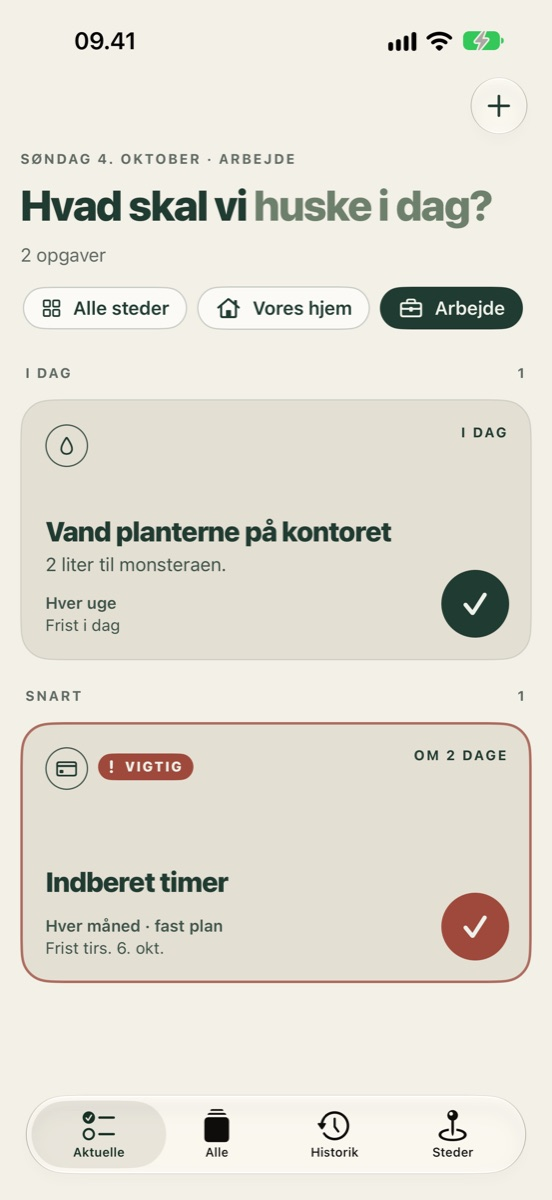
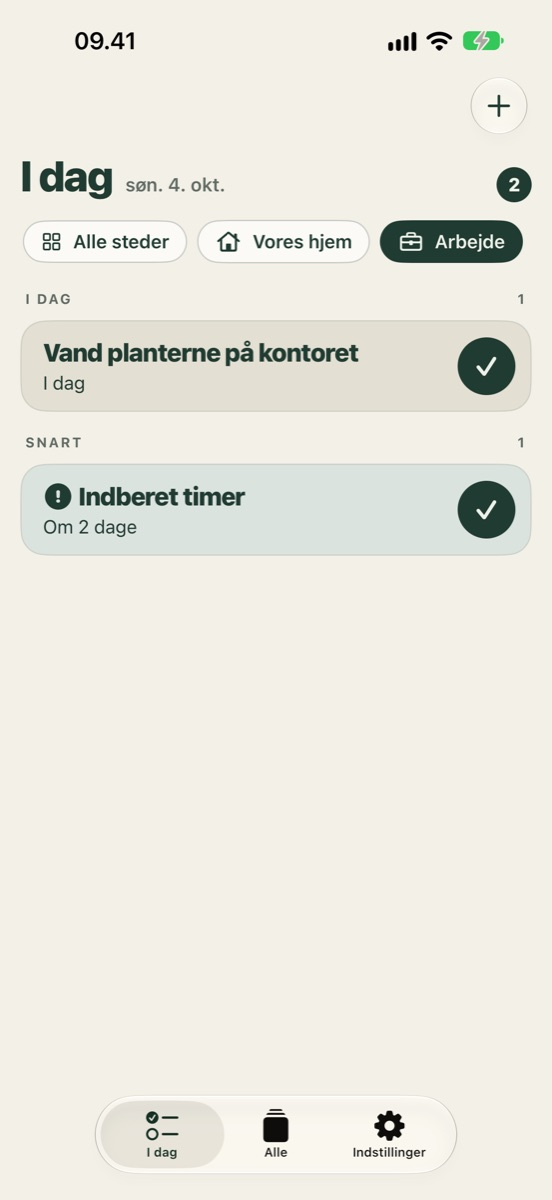
Husk 1.1: I dag, Alle og Indstillinger – nye skærmbilleder og opdateret hjælp

diff --git a/support.html b/support.html
@@ -45,40 +45,40 @@
   <details>
     <summary>Hvordan inviterer jeg familien?</summary>
     <ol>
-      <li>Gå til <em>Steder</em>, og tryk på stedet (fx Hjem).</li>
-      <li>Tryk <em>Invitér til …</em>, og send linket via Beskeder eller mail – eller kopiér det.</li>
+      <li>Tryk <em>Invitér</em> på kortet <em>Invitér familien</em> nederst i <em>I dag</em> – eller gå til <em>Indstillinger</em>, og tryk på stedet (fx Hjem) → <em>Invitér til …</em>.</li>
+      <li>Send linket via Beskeder eller mail – eller kopiér det.</li>
       <li>Modtageren installerer Husk og trykker på linket. Stedet hentes fra iCloud.</li>
     </ol>
   </details>
   <details>
     <summary>Linket åbner ikke Husk – hvad gør jeg?</summary>
-    <p>Kopiér linket, åbn Husk, og vælg <em>Steder → Tilslut med invitationslink</em> (eller <em>Jeg har fået en invitation</em> ved første opstart), og indsæt det.</p>
+    <p>Kopiér linket, åbn Husk, og vælg <em>Indstillinger → Tilslut med invitationslink</em> (eller <em>Jeg har fået en invitation</em> ved første opstart), og indsæt det.</p>
   </details>
   <details>
     <summary>Kan jeg have flere steder?</summary>
-    <p>Ja. Vælg <em>Steder → Nyt sted</em>, fx Arbejde eller Klub. Hvert sted har sine egne opgaver og sit eget fællesskab. I Aktuelle vælger du "Alle steder" eller ét sted ad gangen.</p>
+    <p>Ja. Vælg <em>Indstillinger → Nyt sted</em>, fx Arbejde eller Klub. Hvert sted har sine egne opgaver og sit eget fællesskab. I <em>I dag</em> vælger du "Alle steder" eller ét sted ad gangen.</p>
   </details>
 
   <h2>Opgaver og påmindelser</h2>
   <details>
-    <summary>Hvornår dukker en opgave op i Aktuelle?</summary>
-    <p>Som standard 3 dage før fristen. Det kan ændres for hele stedet (under <em>Steder</em>) eller for den enkelte opgave. Overskredne opgaver bliver stående, til de er krydset af.</p>
+    <summary>Hvornår dukker en opgave op i I dag?</summary>
+    <p>Som standard 3 dage før fristen. Det kan ændres for hele stedet (<em>Indstillinger → stedet</em>) eller for den enkelte opgave (<em>Rediger → Flere valg → Vis</em>). Overskredne opgaver bliver stående, til de er krydset af.</p>
   </details>
   <details>
     <summary>Jeg krydsede af ved en fejl</summary>
-    <p>Tryk <em>Fortryd</em> i bjælken nederst, eller find afkrydsningen under <em>Historik</em> og tryk <em>Fortryd</em>. Fristen kommer tilbage hos alle.</p>
+    <p>Tryk <em>Fortryd</em> i bjælken nederst, eller find afkrydsningen i historikken (<em>Alle</em> → uret øverst) og tryk <em>Fortryd</em>. Fristen kommer tilbage hos alle.</p>
   </details>
   <details>
     <summary>Hvad er en vigtig opgave?</summary>
-    <p>Slå <em>Vigtig opgave</em> til i redigeringen. Vigtige opgaver står øverst, er markeret med rødt og giver påmindelse også på fristdagen og de tre første dage efter, hvis de ikke er udført.</p>
+    <p>Swipe til venstre på opgaven under <em>Alle</em>, hold fingeren på kortet i <em>I dag</em>, eller slå <em>Vigtig</em> til under <em>Rediger → Flere valg</em>. Vigtige opgaver står øverst med et lille ! og giver påmindelse også på fristdagen og de tre første dage efter, hvis de ikke er udført. Rød betyder kun, at en frist er overskredet.</p>
   </details>
   <details>
     <summary>Jeg får ingen påmindelser</summary>
-    <p>Tjek at påmindelser er slået til under <em>Steder → Påmindelser på denne iPhone</em> og i Indstillinger → Notifikationer → Husk. Påmindelsen kommer på det valgte klokkeslæt den dag, en opgave bliver aktuel.</p>
+    <p>Tjek at påmindelser er slået til under <em>Indstillinger → Påmindelser på denne iPhone</em> og i Indstillinger → Notifikationer → Husk. Påmindelsen kommer på det valgte klokkeslæt den dag, en opgave kommer frem i <em>I dag</em>.</p>
   </details>
   <details>
     <summary>Hvordan virker sæsoner?</summary>
-    <p>Under <em>Rediger → Sæsoner</em> kan en opgave få et andet interval i en periode, fx hver uge om sommeren og hver 14. dag om efteråret – eller en pause. Det interval, der gælder på fristdagen, bruges.</p>
+    <p>Under <em>Rediger → Flere valg → Sæsoner</em> kan en opgave få et andet interval i en periode, fx hver uge om sommeren og hver 14. dag om efteråret – eller en pause. Uden for perioderne gælder <em>Normalt</em>. Det interval, der gælder på fristdagen, bruges.</p>
   </details>
 
   <h2>Widget og Apple Watch</h2>
@@ -98,7 +98,7 @@
   </details>
   <details>
     <summary>Hvordan sletter jeg alt?</summary>
-    <p>Slet stederne i appen (<em>Steder → stedet → Slet stedet</em>), eller fjern data under Indstillinger → dit navn → iCloud → Administrer lagringsplads → Husk.</p>
+    <p>Slet stederne i appen (<em>Indstillinger → stedet → Slet stedet</em>), eller fjern data under Indstillinger → dit navn → iCloud → Administrer lagringsplads → Husk.</p>
   </details>
 
   <p style="margin-top: 40px"><small>© 2026 Michael Skov Hejmadi · <a href="privacy.html">Privatlivspolitik</a></small></p>

diff --git a/index.html b/index.html
@@ -95,7 +95,7 @@
       </div>
     </div>
     <div class="phones">
-      <img src="aktuelle.jpg" alt="Skærmbillede: Aktuelle viser dagens opgaver med en overskreden opgave øverst">
+      <img src="aktuelle.jpg" alt="Skærmbillede: I dag viser dagens opgaver med en overskreden opgave øverst">
       <img src="widget.jpg" alt="Skærmbillede: Husk-widgets på hjemmeskærmen med opgaver og ✓-knapper">
     </div>
   </header>
@@ -106,7 +106,7 @@
     <div class="grid">
       <div class="card c1"><div class="num">01</div><h3>Fælles for hele familien</h3><p>Ét tryk krydser af for alle. Man kan se, hvem der gjorde det og hvornår – og opgaven dukker først op igen, når det er tid.</p></div>
       <div class="card c2"><div class="num">02</div><h3>Flere steder</h3><p>Hjem, arbejde, klub eller sommerhus – hvert sted har sine egne opgaver og sit eget fællesskab.</p></div>
-      <div class="card c3"><div class="num">03</div><h3>Vigtige opgaver</h3><p>Medicin og regninger kan markeres som vigtige. De står øverst og giver ekstra påmindelser.</p></div>
+      <div class="card c3"><div class="num">03</div><h3>Enkel at bruge</h3><p>I dag viser kun det, der skal gøres. En ny opgave er navn, hvor tit og næste gang – vigtige opgaver får et lille ! og står øverst.</p></div>
       <div class="card c4"><div class="num">04</div><h3>Sæsoner</h3><p>Bonsaien skal vandes hver uge om sommeren og hver 14. dag om efteråret? Husk følger årstiden.</p></div>
       <div class="card c5"><div class="num">05</div><h3>Widget og Apple Watch</h3><p>Se dagens opgaver på hjemmeskærmen, låseskærmen og uret – og kryds af direkte derfra.</p></div>
       <div class="card c6"><div class="num">06</div><h3>Fortryd altid</h3><p>Krydset af ved en fejl? Fortryd med det samme eller fra historikken – fristen kommer tilbage hos alle.</p></div>
@@ -117,11 +117,12 @@
     <div class="eyebrow">Se appen</div>
     <h2>Rolig, <span>tydelig og dansk.</span></h2>
     <div class="shots">
-      <figure><img src="aktuelle.jpg" alt="Aktuelle" loading="lazy"><figcaption>Aktuelle</figcaption></figure>
+      <figure><img src="aktuelle.jpg" alt="I dag" loading="lazy"><figcaption>I dag</figcaption></figure>
+      <figure><img src="ny-opgave.jpg" alt="Ny opgave: navn, hvor tit og næste gang" loading="lazy"><figcaption>Ny opgave</figcaption></figure>
       <figure><img src="detaljer.jpg" alt="Opgavedetaljer med sæsoner" loading="lazy"><figcaption>Detaljer og sæsoner</figcaption></figure>
       <figure><img src="sted-arbejde.jpg" alt="Et sted med en vigtig opgave" loading="lazy"><figcaption>Steder og vigtige opgaver</figcaption></figure>
       <figure><img src="widget.jpg" alt="Widgets på hjemmeskærmen" loading="lazy"><figcaption>Widgets</figcaption></figure>
-      <figure><img src="steder.jpg" alt="Steder og indstillinger" loading="lazy"><figcaption>Steder og påmindelser</figcaption></figure>
+      <figure><img src="steder.jpg" alt="Indstillinger med steder og påmindelser" loading="lazy"><figcaption>Indstillinger</figcaption></figure>
       <figure><img class="watch" src="ur-aktuelle.jpg" alt="Husk på Apple Watch" loading="lazy"><figcaption>Apple Watch</figcaption></figure>
       <figure><img class="watch" src="ur-udfoert.jpg" alt="Udført på Apple Watch med Fortryd" loading="lazy"><figcaption>Udført på uret</figcaption></figure>
     </div>
